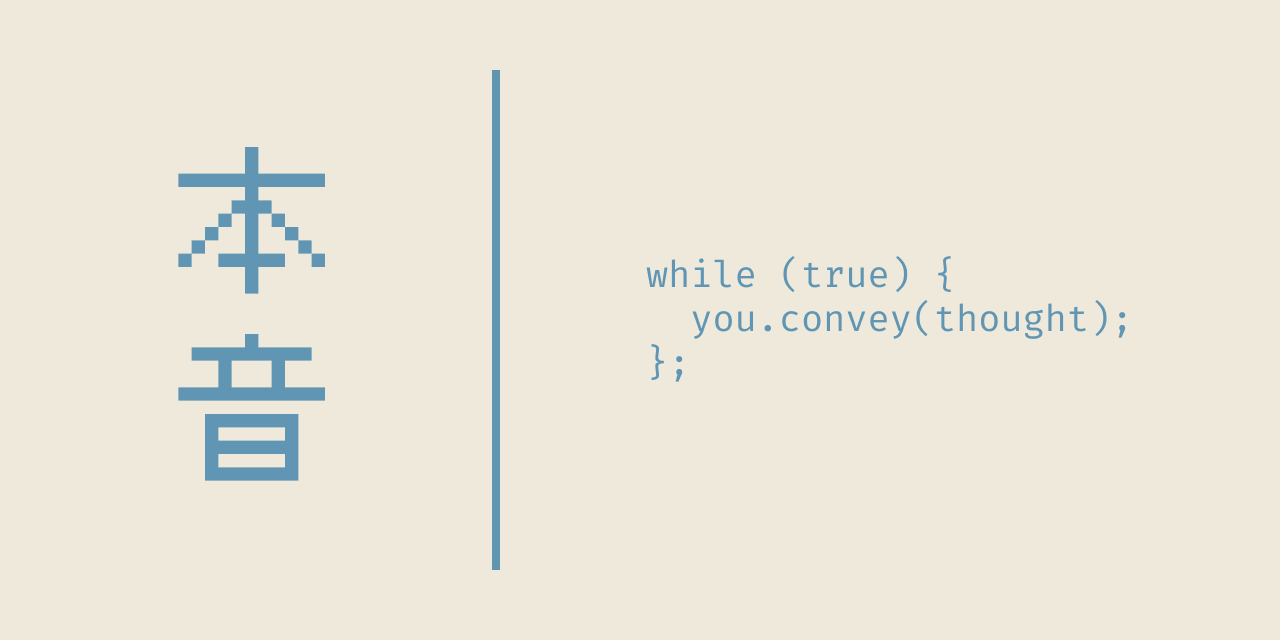
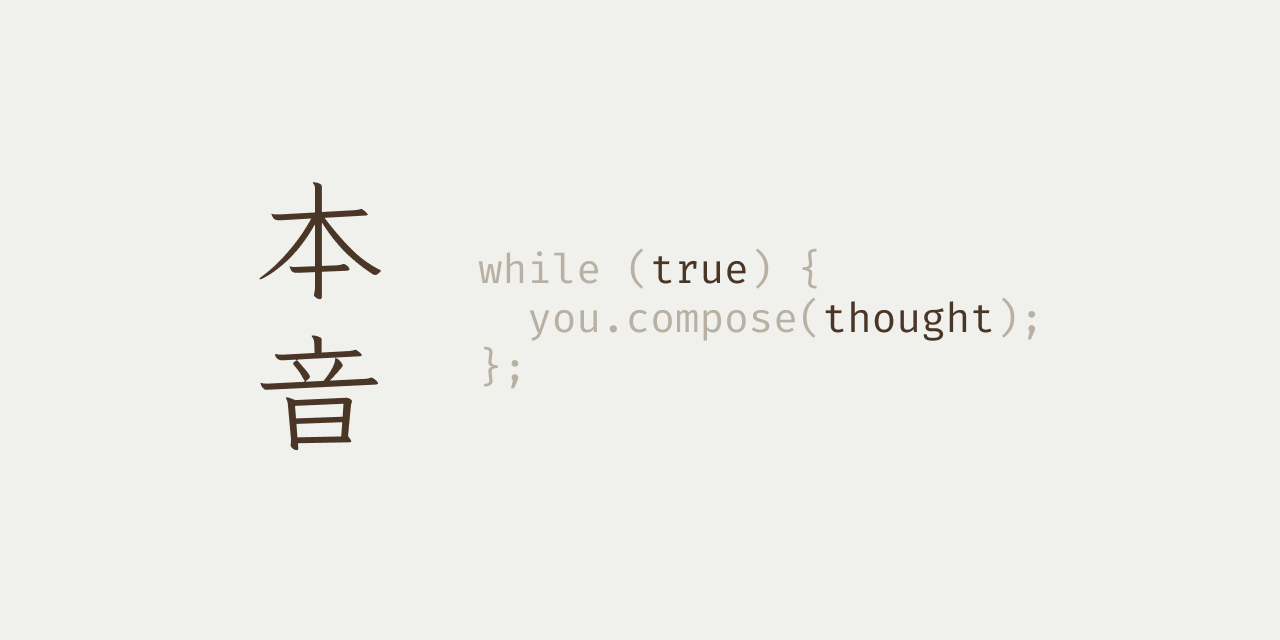
Quill UI.

Changed region(s): [[0.375, 0.125, 0.875, 0.875], [0.125, 0.5, 0.3125, 0.75], [0.125, 0.2188, 0.3125, 0.4688]]

diff --git a/pages/Quill.vue b/pages/Quill.vue
@@ -1,14 +1,25 @@
 <template>
-  <div v-if="!wrote">
-    <input ref="input" type="text" />
-    <button @click="write">Write</button>
+  <Heading title="Quill" :description="description" />
+  <div class="field" v-if="!wrote">
+    <input
+      @input="validate" ref="input"
+      type="text" maxlength="20" placeholder="a spark of thought."
+    />
+    <button class="disabled" ref="btn" @click="write">Write.</button>
   </div>
   <div v-else>
-    <p>Wrote today already!</p>
+    <NuxtLink to="/memoir">Visit Memoir.</NuxtLink>
   </div>
 </template>
 
 <style scoped lang="postcss">
+.field {
+  @apply flex flex-col;
+}
+
+.field input {
+  @apply mb-12 text-center;
+}
 </style>
 
 <script setup lang="ts">
@@ -18,6 +29,15 @@ const client = useSupabaseAuthClient();
 const user = useSupabaseUser();
 
 const input: Ref<HTMLInputElement | null> = ref(null);
+const btn: Ref<HTMLButtonElement | null> = ref(null);
+
+function validate(event) {
+  if (input.value.value != 0) {
+    btn.value.classList.remove('disabled');
+  } else {
+    btn.value.classList.add('disabled');
+  };
+};
 
 let { data: wrote } = await client
   .from('stats')
@@ -27,7 +47,7 @@ let { data: wrote } = await client
 wrote = wrote[0]['wrote'];
 
 const write = async() => {
-  if (!input.value.value || wrote) { return; };
+  if (wrote) { return; };
 
   const { data: thoughts } = await client
     .from('thoughts')
@@ -45,6 +65,12 @@ const write = async() => {
     .update({ 'wrote': true })
     .eq('user_id', user.value.id);
 
-  navigateTo('/past');
+  navigateTo('/memoir');
 };
+
+let description;
+
+wrote ?
+  description = "You've written today already." :
+  description = "What's in your mind today?";
 </script>

diff --git a/app.vue b/app.vue
@@ -5,7 +5,41 @@
 </template>
 
 <style lang="postcss">
+::selection {
+  @apply bg-secondary;
+}
+
+::placeholder {
+  @apply text-tertiary;
+}
+
 * {
   @apply m-0 p-0 font-sans;
+  @apply bg-primary text-secondary;
+  @apply outline-none select-none;
+}
+
+a, button {
+  @apply px-6 py-3 text-lg border-0 border-rd;
+  @apply cursor-pointer transition-all decoration-none;
+  @apply bg-tertiary text-secondary;
+}
+
+a:hover, button:not(.disabled):hover {
+  @apply bg-secondary text-primary;
+}
+
+input {
+  @apply border-0 border-b-2;
+  @apply px-6 py-3 text-xl;
+}
+
+main {
+  @apply flex flex-col h-screen;
+  @apply justify-center items-center text-center;
+}
+
+.disabled {
+  @apply text-primary cursor-not-allowed;
 }
 </style>

diff --git a/components/Heading.vue b/components/Heading.vue
@@ -1,0 +1,27 @@
+<template>
+  <div class="title">
+    <h2>{{ title }}</h2>
+    <p>{{ description }}</p>
+  </div>
+</template>
+
+<style scoped lang="postcss">
+.title {
+  @apply mb-18;
+}
+
+.title h2 {
+  @apply text-6xl font-400 mb-3;
+}
+
+.title p {
+  @apply text-xl;
+}
+</style>
+
+<script setup lang="ts">
+const props = defineProps<{
+  'title': string,
+  'description': string
+}>();
+</script>

diff --git a/pages/index.vue b/pages/index.vue
@@ -1,5 +1,5 @@
 <template>
-  <button @click="login">Login with Discord</button>
+  <button @click="login">Login with Discord.</button>
 </template>
 
 <style scoped lang="postcss">
@@ -17,7 +17,7 @@ const login = async() => {
 
 onMounted(() => {
   watchEffect(() => {
-    if (user.value) { navigateTo('/write'); };
+    if (user.value) { navigateTo('/quill'); };
   });
 });
 </script>

diff --git a/uno.config.ts b/uno.config.ts
@@ -5,12 +5,19 @@ import {
 } from 'unocss';
 
 export default defineConfig({
+  theme: {
+    colors: {
+      primary: '#F0F0EC',
+      secondary: '#4A3626',
+      tertiary: '#B8B0A2'
+    }
+  },
 	presets: [
 		presetUno(),
 		presetWebFonts({
 			provider: 'fontshare',
 			fonts: {
-				sans: 'Satoshi'
+        sans: 'Zodiak'
 			}
 		})
 	],

diff --git a/pages/Memoir.vue b/pages/Memoir.vue
@@ -1,4 +1,5 @@
 <template>
+  <Heading title="Memoir" description="Review the past." />
   <Suspense>
     <template #default>
       <p v-for="thought in thoughts">

diff --git a/README.md b/README.md
@@ -1,6 +1,6 @@
 [![Banner](./.github/assets/banner.png)](https://arizlunari.vercel.app)
 
-> *(noun)*: one's true feelings and thoughts.
+> *Japanese (noun)*: one's true feelings and thoughts.
 
 # Honne, 本音
 A special kind of diary to compose your true thoughts daily, and privately.
